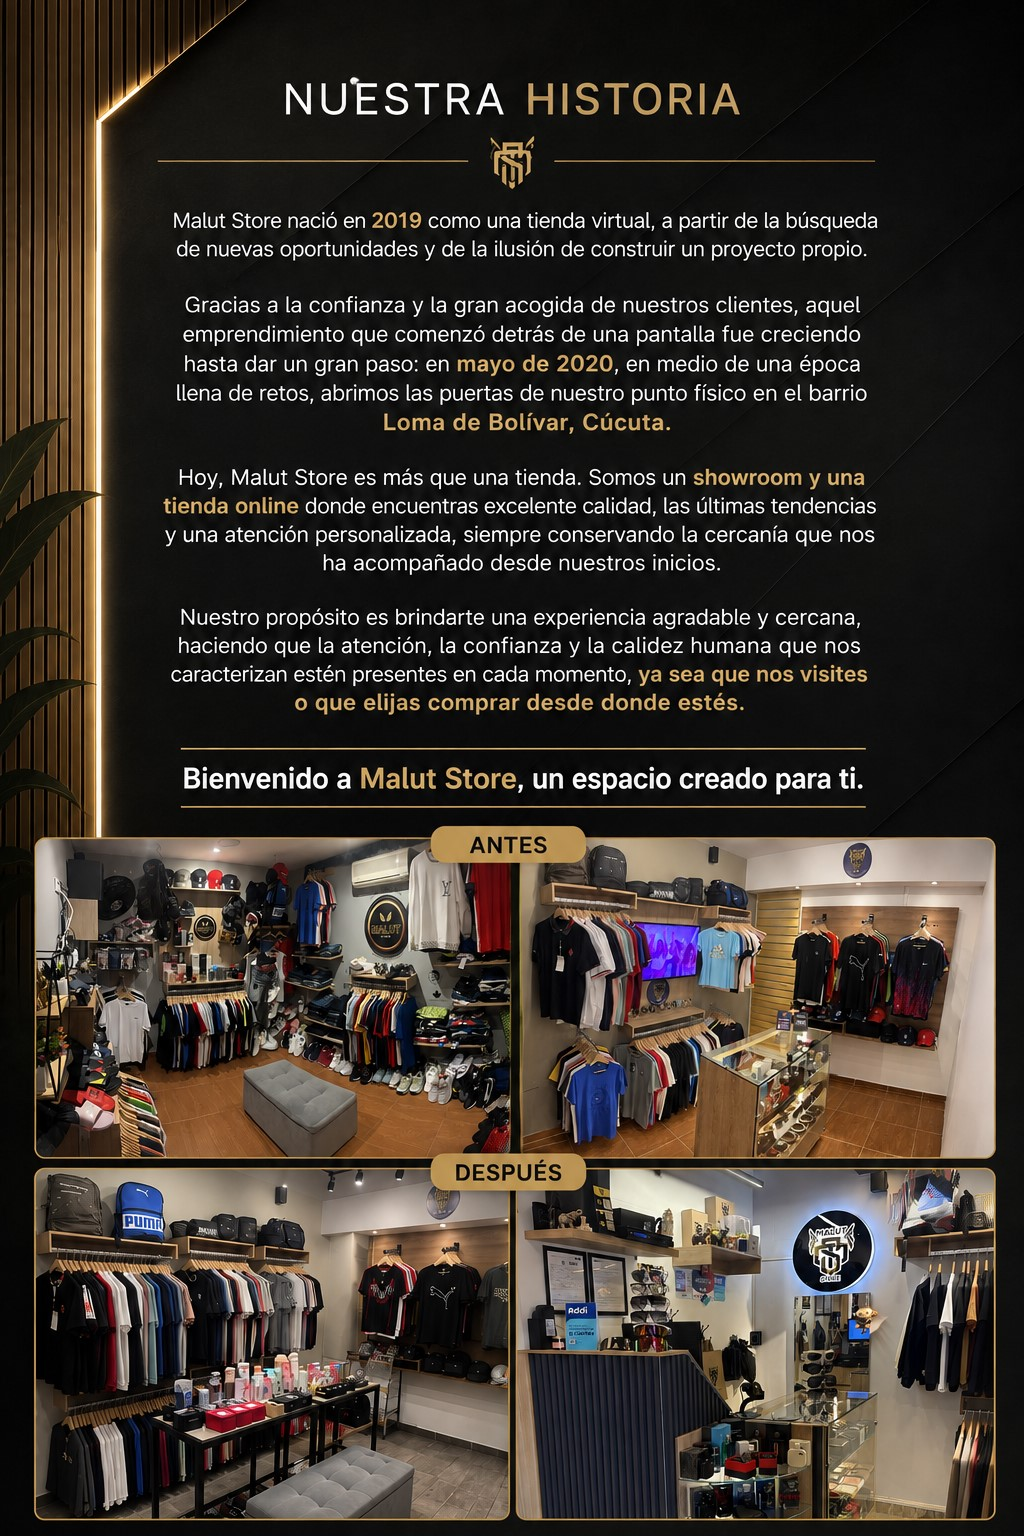
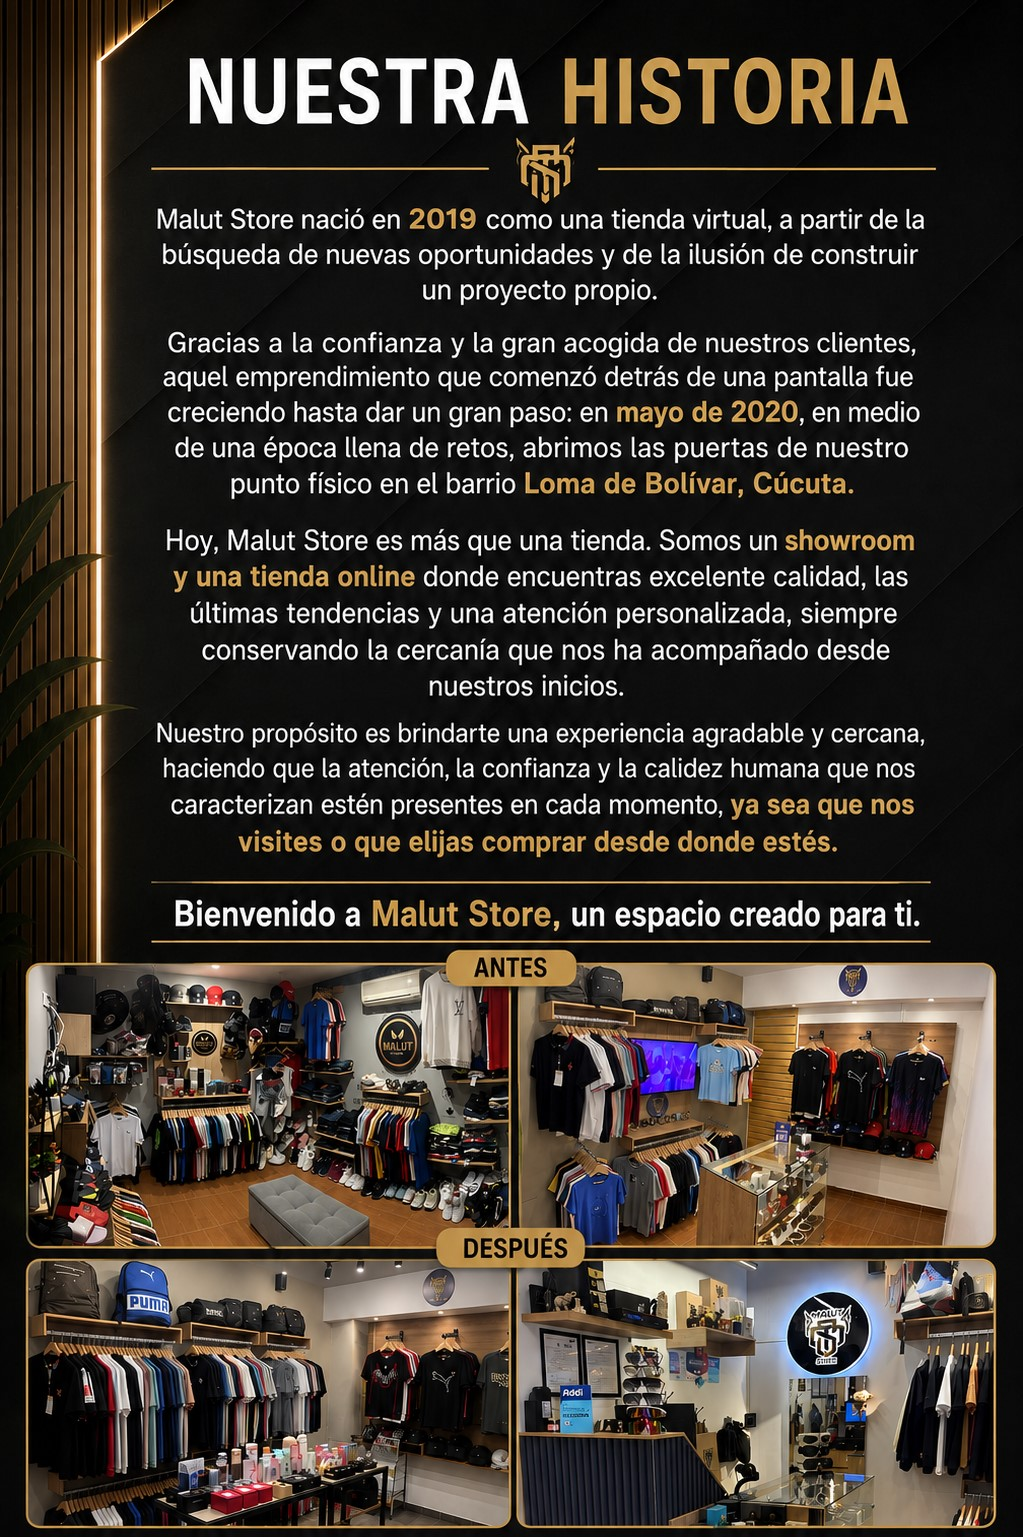
Colores y tamaño de mensaje
Actualizacion

diff --git a/css/styles.css b/css/styles.css
@@ -1352,7 +1352,7 @@ cursor: pointer;
 
 .boton-producto.deshabilitado{
 
-    background:#bdbdbd;
+    background:#7fdca1;
 
     cursor:not-allowed;
 
